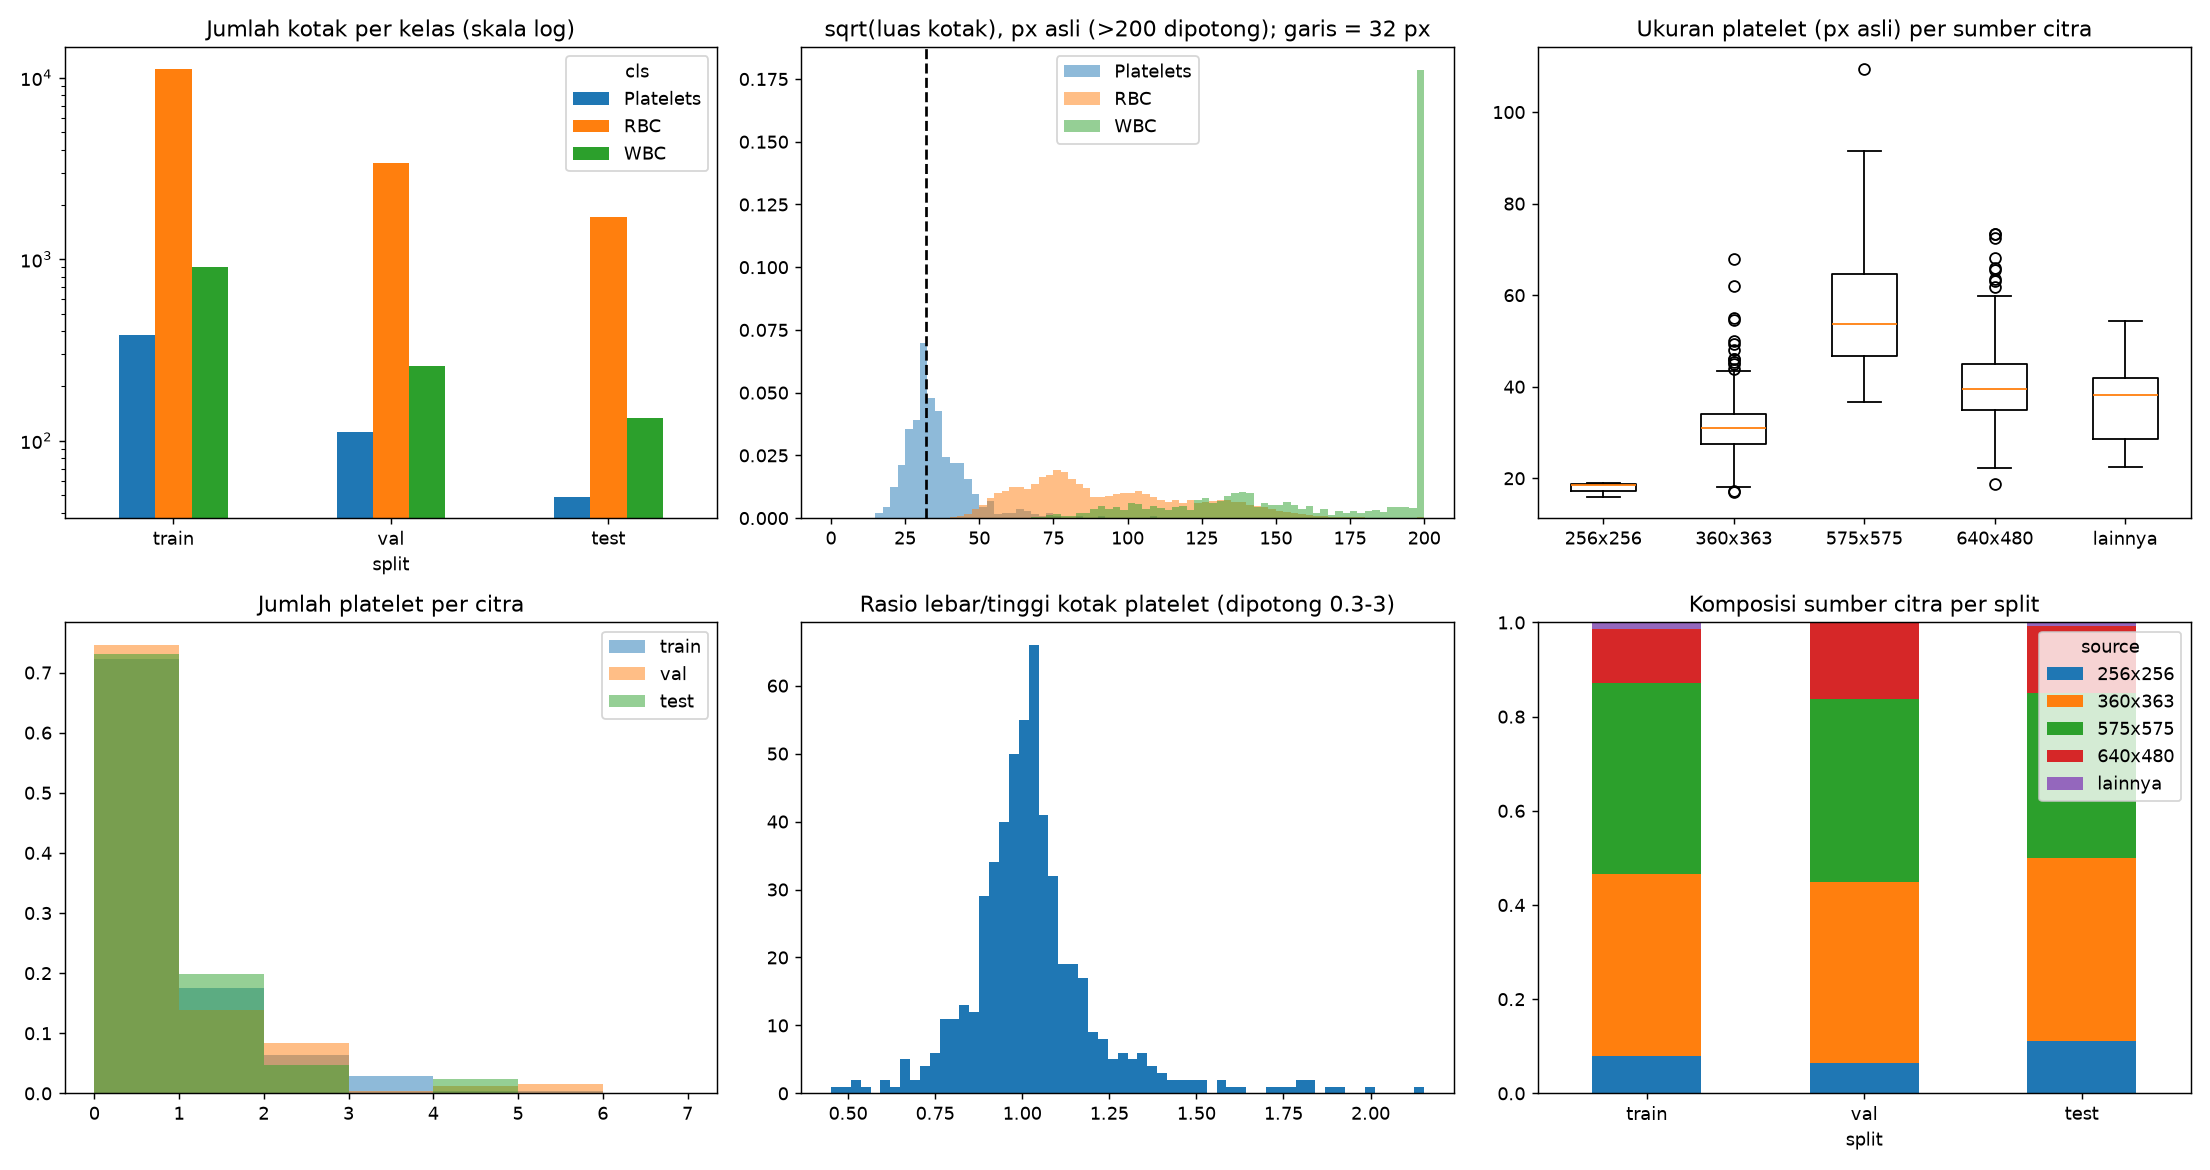
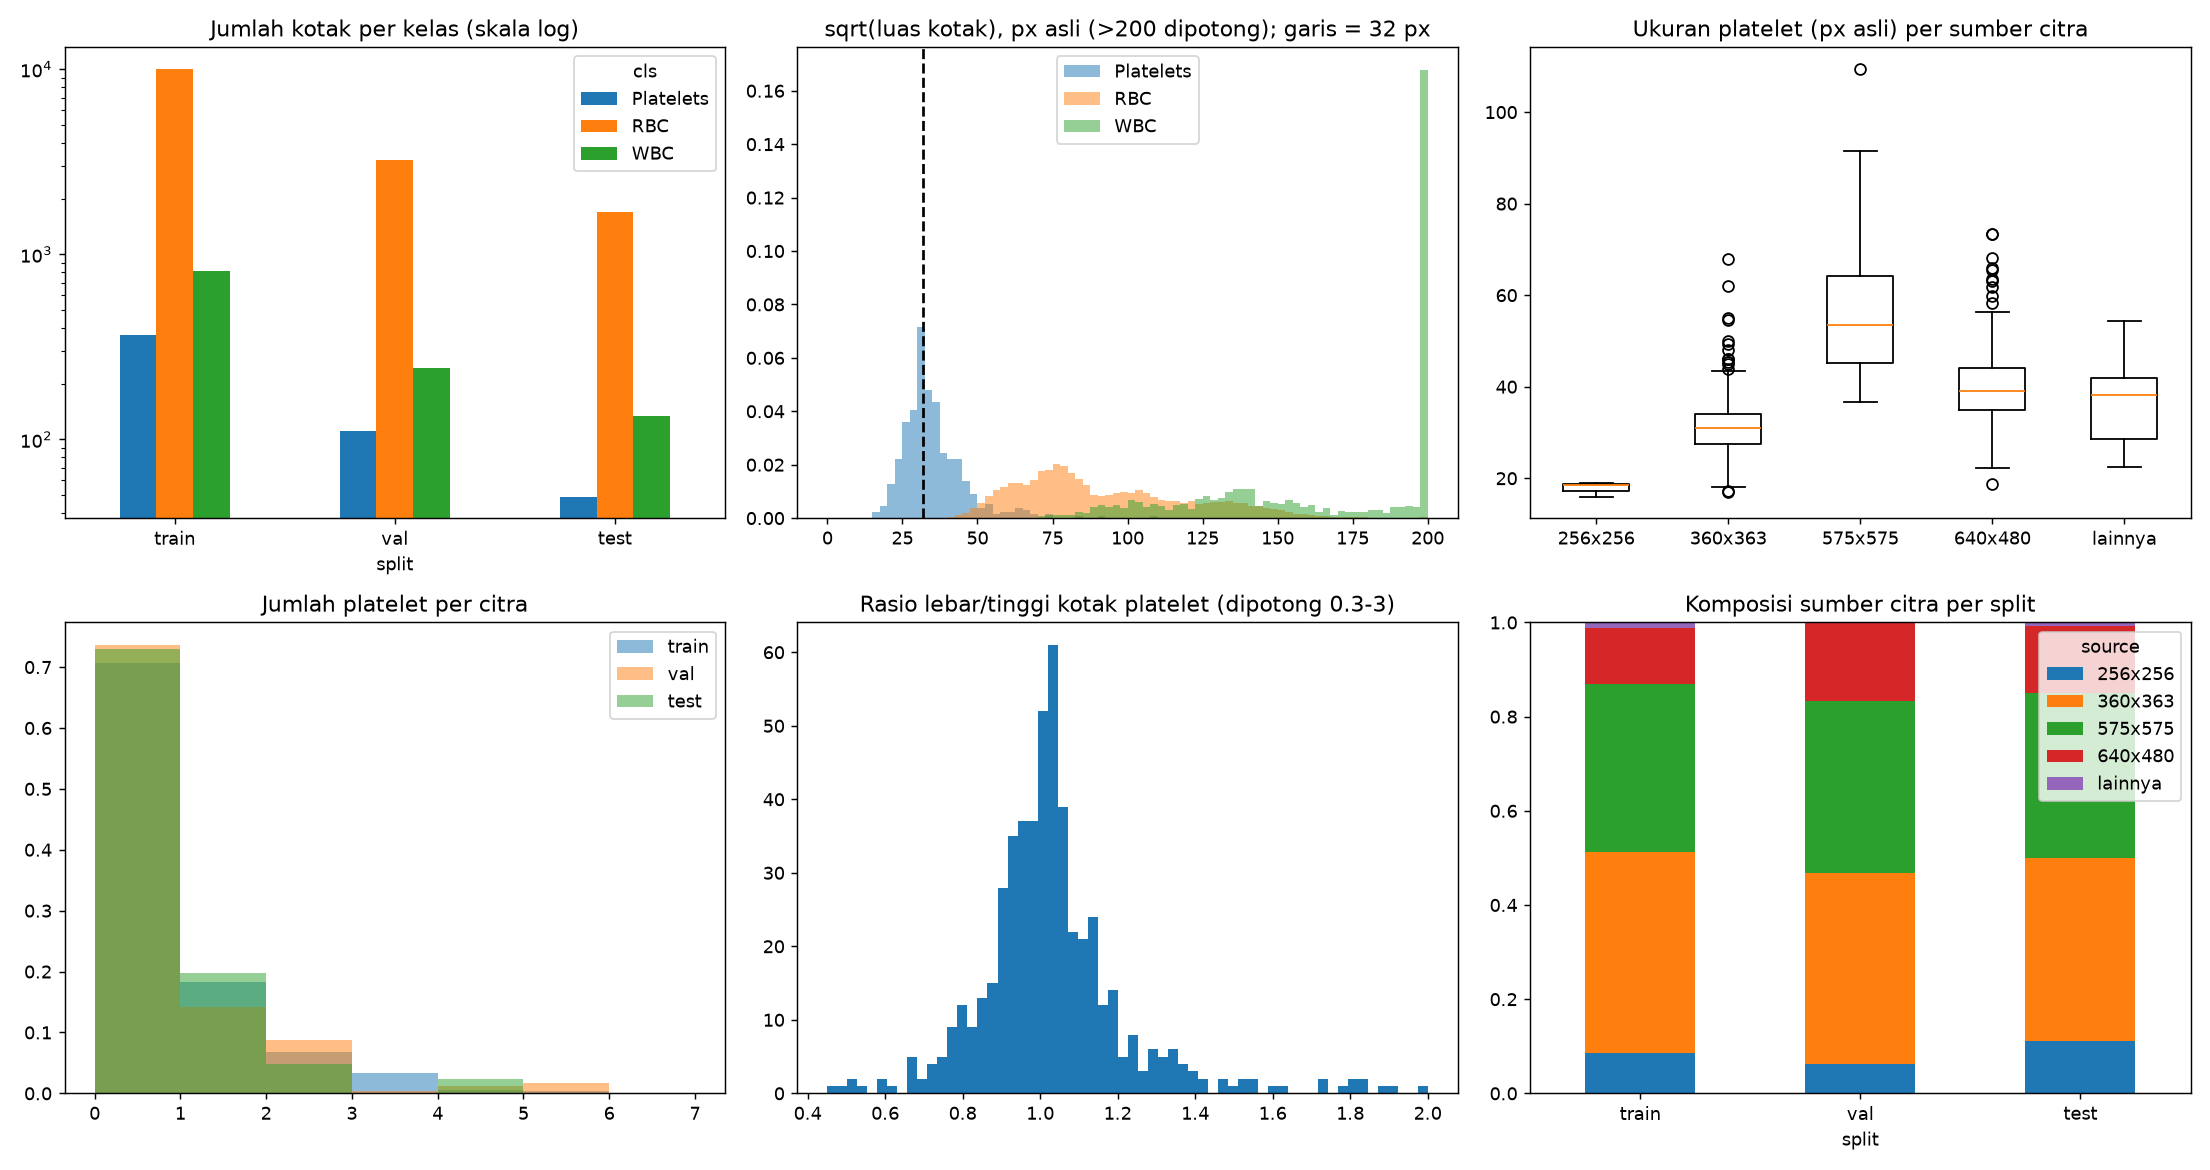
add EDA on clean splits and flagged-test sensitivity lists

diff --git a/scripts/eda.py b/scripts/eda.py
@@ -8,7 +8,7 @@ import matplotlib.pyplot as plt
 import numpy as np
 import pandas as pd
 
-COCO_DIR = Path("data/processed/coco")
+COCO_DIR = Path("data/processed/coco_clean")
 LOG_DIR, FIG_DIR = Path("logs"), Path("figures")
 SPLITS = ["train", "val", "test"]
 TOP_SOURCES = ["575x575", "360x363", "640x480", "256x256"]  # dari validate_dataset.py
